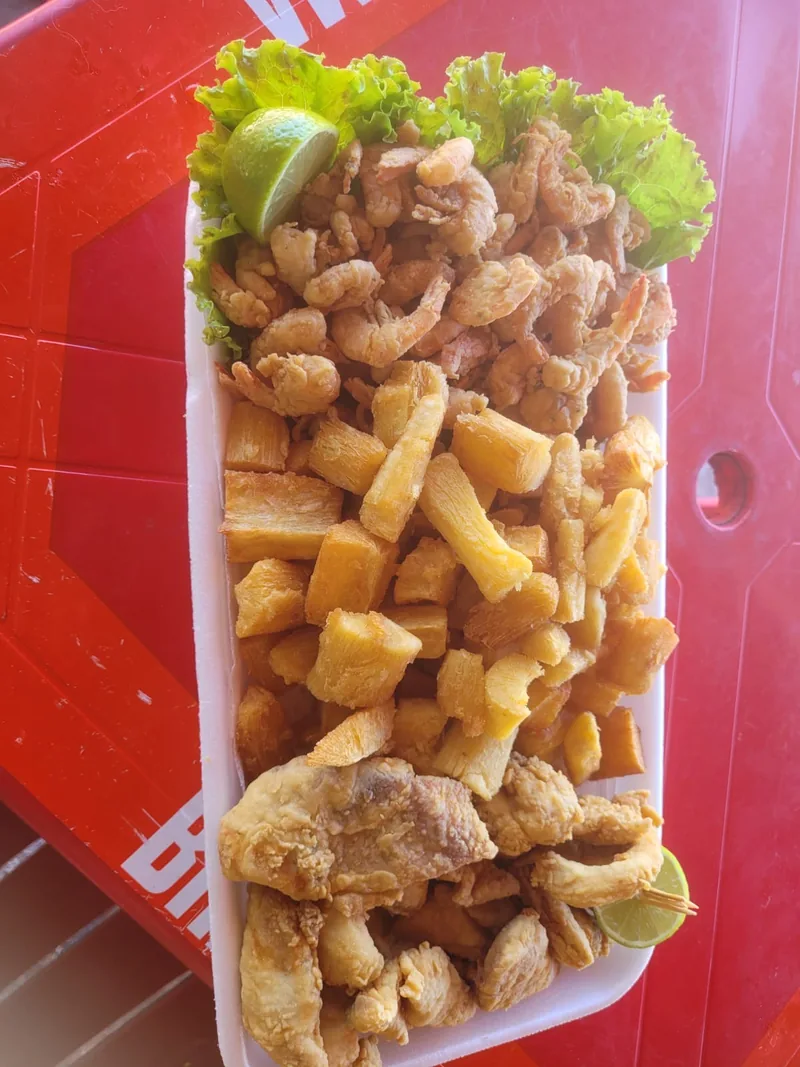
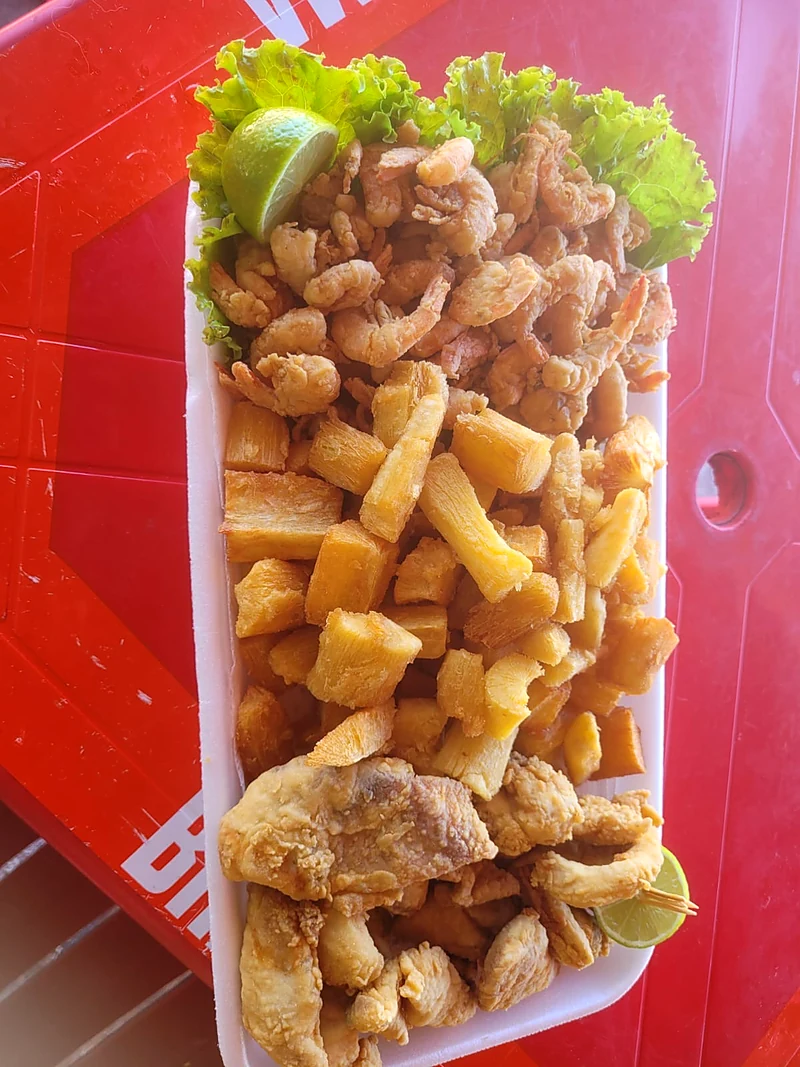
feat: ultra otimizacao Toninhas (Titan One/Gochi Hand/Poppins, faixa do mar em arte com tubarao, barra do topo some ao rolar, cardapio mais legivel, og v2, imagens reprocessadas sem marca d'agua; tira nota 4,6 e Instagram nao confirmados)

diff --git a/index.html b/index.html
@@ -14,27 +14,27 @@
 <meta property="og:title" content="Quiosque Ponto de Encontro Toninhas | Pé na areia, mordida certa">
 <meta property="og:description" content="Porção, pastel e bebida gelada na Praia das Toninhas, Ubatuba. Cardápio com preços e pedido pelo WhatsApp.">
 <meta property="og:url" content="https://quiosque-ponto-de-encontro-toninhas-eight.vercel.app/">
-<meta property="og:image" content="https://quiosque-ponto-de-encontro-toninhas-eight.vercel.app/img/og-toninhas-v1.jpg">
+<meta property="og:image" content="https://quiosque-ponto-de-encontro-toninhas-eight.vercel.app/img/og-toninhas-v2.jpg">
 <meta property="og:image:width" content="1200">
 <meta property="og:image:height" content="630">
 <meta property="og:image:alt" content="Tubarão do Quiosque Ponto de Encontro Toninhas e porção mista na Praia das Toninhas">
 <meta name="twitter:card" content="summary_large_image">
-<meta name="twitter:image" content="https://quiosque-ponto-de-encontro-toninhas-eight.vercel.app/img/og-toninhas-v1.jpg">
+<meta name="twitter:image" content="https://quiosque-ponto-de-encontro-toninhas-eight.vercel.app/img/og-toninhas-v2.jpg">
 <link rel="icon" type="image/png" sizes="48x48" href="favicon-48.png">
 <link rel="apple-touch-icon" href="apple-touch-icon.png">
 <link rel="preload" as="image" href="img/praia-hero-800.webp" imagesrcset="img/praia-hero-800.webp 800w, img/praia-hero-1280.webp 1280w, img/praia-hero-1920.webp 1920w" imagesizes="100vw" fetchpriority="high">
 <link rel="preconnect" href="https://fonts.googleapis.com">
 <link rel="preconnect" href="https://fonts.gstatic.com" crossorigin>
-<link href="https://fonts.googleapis.com/css2?family=Bungee&family=Permanent+Marker&family=Rubik:wght@400;500;600;700&display=swap" rel="stylesheet">
-<script type="application/ld+json">{"@context":"https://schema.org","@graph":[{"@type":"Restaurant","@id":"https://quiosque-ponto-de-encontro-toninhas-eight.vercel.app/#negocio","name":"Quiosque Ponto de Encontro Toninhas","url":"https://quiosque-ponto-de-encontro-toninhas-eight.vercel.app/","image":"https://quiosque-ponto-de-encontro-toninhas-eight.vercel.app/img/og-toninhas-v1.jpg","telephone":"+5512997661305","servesCuisine":["Frutos do mar","Petiscos","Porções"],"address":{"@type":"PostalAddress","streetAddress":"Rua Willy Aureli, 1232","addressLocality":"Ubatuba","addressRegion":"SP","postalCode":"11680-000","addressCountry":"BR"},"hasMap":"https://www.google.com/maps/place/?q=place_id:ChIJb7s8DQJUzZQRAkxHpKFtSZg","sameAs":["https://www.instagram.com/quiosquepontodeencontroton/"]},{"@type":"FAQPage","mainEntity":[{"@type":"Question","name":"Como faço pedido?","acceptedAnswer":{"@type":"Answer","text":"Pelo WhatsApp do Beto, (12) 99766-1305. Chame, diga o que quer e combine com ele."}},{"@type":"Question","name":"Qual o horário de funcionamento?","acceptedAnswer":{"@type":"Answer","text":"O Beto confirma o horário do dia pelo WhatsApp. Chame antes de ir."}},{"@type":"Question","name":"Os preços do cardápio são esses mesmos?","acceptedAnswer":{"@type":"Answer","text":"São os valores do cardápio do quiosque. Podem mudar, então confirme no WhatsApp ao pedir."}},{"@type":"Question","name":"Dá para dividir a conta?","acceptedAnswer":{"@type":"Answer","text":"A conta só é dividida entre 2 pessoas. No final é cobrada taxa de serviço de 10% do garçom."}},{"@type":"Question","name":"Onde fica?","acceptedAnswer":{"@type":"Answer","text":"Na Praia das Toninhas, em Ubatuba. Rua Willy Aureli, 1232 — Praia das Toninhas, Ubatuba - SP."}}]}]}</script>
+<link href="https://fonts.googleapis.com/css2?family=Titan+One&family=Gochi+Hand&family=Poppins:wght@400;500;600;700&display=swap" rel="stylesheet">
+<script type="application/ld+json">{"@context":"https://schema.org","@graph":[{"@type":"Restaurant","@id":"https://quiosque-ponto-de-encontro-toninhas-eight.vercel.app/#negocio","name":"Quiosque Ponto de Encontro Toninhas","url":"https://quiosque-ponto-de-encontro-toninhas-eight.vercel.app/","image":"https://quiosque-ponto-de-encontro-toninhas-eight.vercel.app/img/og-toninhas-v2.jpg","telephone":"+5512997661305","servesCuisine":["Frutos do mar","Petiscos","Porções"],"address":{"@type":"PostalAddress","streetAddress":"Rua Willy Aureli, 1232","addressLocality":"Ubatuba","addressRegion":"SP","postalCode":"11680-000","addressCountry":"BR"},"hasMap":"https://www.google.com/maps/place/?q=place_id:ChIJb7s8DQJUzZQRAkxHpKFtSZg"},{"@type":"FAQPage","mainEntity":[{"@type":"Question","name":"Como faço pedido?","acceptedAnswer":{"@type":"Answer","text":"Pelo WhatsApp do Beto, (12) 99766-1305. Chame, diga o que quer e combine com ele."}},{"@type":"Question","name":"Qual o horário de funcionamento?","acceptedAnswer":{"@type":"Answer","text":"O Beto confirma o horário do dia pelo WhatsApp. Chame antes de ir."}},{"@type":"Question","name":"Os preços do cardápio são esses mesmos?","acceptedAnswer":{"@type":"Answer","text":"São os valores do cardápio do quiosque. Podem mudar, então confirme no WhatsApp ao pedir."}},{"@type":"Question","name":"Dá para dividir a conta?","acceptedAnswer":{"@type":"Answer","text":"A conta só é dividida entre 2 pessoas. No final é cobrada taxa de serviço de 10% do garçom."}},{"@type":"Question","name":"Onde fica?","acceptedAnswer":{"@type":"Answer","text":"Na Praia das Toninhas, em Ubatuba. Rua Willy Aureli, 1232 — Praia das Toninhas, Ubatuba - SP."}}]}]}</script>
 <style>:root{--ink:#04191a;--deep:#0a3b3a;--teal:#12a79a;--turq:#27e0cc;--aqua:#a6f5ea;--blue:#2f86d6;--sun:#ffd23f;--cream:#f6f1e3;--red:#e23b2e;--wa:#25d366;--ease:cubic-bezier(.2,.8,.2,1);--t:.7s}
 *{box-sizing:border-box;margin:0;padding:0}
 html{scroll-behavior:smooth;-webkit-text-size-adjust:100%}
-body{font-family:Rubik,system-ui,sans-serif;font-size:16px;line-height:1.55;color:#eafffb;background:var(--ink);overflow-x:hidden}
+body{font-family:Poppins,system-ui,sans-serif;font-size:16px;line-height:1.55;color:#eafffb;background:var(--ink);overflow-x:hidden}
 img{display:block;max-width:100%;height:auto}
 a{color:inherit}
 .skip{position:absolute;left:-999px}.skip:focus{left:8px;top:8px;background:#fff;color:#000;padding:8px;z-index:99}
-h1,h2,h3,h4{font-family:Bungee,Rubik,sans-serif;font-weight:400;line-height:1.08;letter-spacing:.01em}
+h1,h2,h3,h4{font-family:'Titan One',Poppins,sans-serif;font-weight:400;line-height:1.1;letter-spacing:.005em}
 .wrap{width:min(1120px,100% - 32px);margin-inline:auto}
 .narrow{width:min(720px,100% - 32px)}
 .center{text-align:center}
@@ -42,18 +42,18 @@ h1,h2,h3,h4{font-family:Bungee,Rubik,sans-serif;font-weight:400;line-height:1.08
 .cream{background:var(--cream);color:#0b2a2a}
 .ink{background:var(--ink)}
 .deep{background:var(--deep)}
-.sec h2{font-size:clamp(1.55rem,6.2vw,2.7rem);margin-bottom:16px;max-width:18ch}
+.sec h2{font-size:clamp(1.45rem,5.6vw,2.5rem);margin-bottom:16px;max-width:18ch}
 .center h2,.final h2{margin-inline:auto}
-.eyebrow{font-family:"Permanent Marker",cursive;font-size:1.25rem;color:var(--teal);margin-bottom:6px;transform:rotate(-2deg);display:inline-block}
+.eyebrow{font-family:"Gochi Hand",cursive;font-size:1.5rem;color:var(--teal);margin-bottom:6px;transform:rotate(-2deg);display:inline-block}
 .ink .eyebrow,.deep .eyebrow{color:var(--turq)}
 .sub{opacity:.8;margin-bottom:22px}
 /* header */
 .hd{position:fixed;inset:0 0 auto 0;z-index:40;display:flex;align-items:center;gap:12px;padding:calc(env(safe-area-inset-top) + 10px) 16px 10px;transition:transform .4s var(--ease),background .3s,backdrop-filter .3s}
 .hd.solid{background:rgba(4,25,26,.92)}
 .hd.hide{transform:translateY(-110%)}
-.brand{display:flex;align-items:center;gap:10px;text-decoration:none;margin-right:auto;font-family:Bungee;font-size:.78rem;line-height:1.05}
+.brand{display:flex;align-items:center;gap:10px;text-decoration:none;margin-right:auto;font-family:'Titan One';font-size:.8rem;line-height:1.05}
 .brand img{border-radius:10px;border:2px solid #fff}
-.brand small{display:block;font-family:Rubik;font-size:.68rem;opacity:.75;margin-top:2px}
+.brand small{display:block;font-family:Poppins;font-size:.68rem;opacity:.75;margin-top:2px}
 .hd nav{display:none;gap:22px;font-weight:500}.hd nav a{text-decoration:none;opacity:.9}.hd nav a:hover{color:var(--turq)}
 @media(min-width:760px){.hd nav{display:flex}.hd{padding-inline:max(24px,calc(50vw - 560px))}}
 /* buttons */
@@ -73,12 +73,12 @@ h1,h2,h3,h4{font-family:Bungee,Rubik,sans-serif;font-weight:400;line-height:1.08
 /* hero */
 .hero{position:relative;min-height:100svh;display:flex;align-items:flex-end;overflow:hidden;padding-bottom:70px;isolation:isolate}
 .hero-bg,.hero-bg img{position:absolute;inset:0;width:100%;height:100%;object-fit:cover;object-position:62% 50%}
-.hero-bg img{animation:zoom 22s ease-out both}
+.hero-bg img{animation:zoom 14s ease-out both;image-rendering:auto}
 @keyframes zoom{from{transform:scale(1.12)}to{transform:scale(1)}}
-.hero::before{content:"";position:absolute;inset:0;z-index:1;background:linear-gradient(180deg,rgba(4,25,26,.55) 0,rgba(4,25,26,0) 28%,rgba(4,25,26,.55) 62%,rgba(4,25,26,.96) 100%)}
+.hero::before{content:"";position:absolute;inset:0;z-index:1;background:linear-gradient(180deg,rgba(4,25,26,.5) 0,rgba(4,25,26,0) 24%,rgba(4,25,26,.3) 46%,rgba(4,25,26,.72) 68%,rgba(4,25,26,.95) 100%)}
 .hero-in{position:relative;z-index:3;width:min(1120px,100% - 32px);margin-inline:auto}
 .tag{margin-bottom:12px}.tag span{display:inline-block;background:var(--sun);color:#1b1500;font-weight:600;font-size:.82rem;padding:4px 12px;border-radius:6px;transform:rotate(-1.5deg)}
-.hero h1{font-size:clamp(1.9rem,8.6vw,4.4rem);max-width:12ch;text-shadow:0 3px 18px rgba(0,0,0,.45)}
+.hero h1{font-size:clamp(1.8rem,7.4vw,3.9rem);max-width:12ch;text-shadow:0 3px 18px rgba(0,0,0,.45)}
 .hero h1 .w:nth-child(n+4){color:var(--turq)}
 .lead{max-width:34ch;font-size:1.08rem;margin-top:14px;text-shadow:0 2px 10px rgba(0,0,0,.5)}
 .sticker{position:absolute;z-index:3;top:calc(env(safe-area-inset-top) + 78px);right:14px;width:min(34vw,220px);border-radius:22px;border:4px solid #fff;box-shadow:0 18px 40px -10px rgba(0,0,0,.6);transform:rotate(5deg);animation:bob 5s ease-in-out infinite}
@@ -103,10 +103,10 @@ h1,h2,h3,h4{font-family:Bungee,Rubik,sans-serif;font-weight:400;line-height:1.08
 .feat svg{width:44px;height:44px;flex:none;color:var(--teal);transition:transform .5s var(--ease)}
 .feat li:hover svg,.feat li.in svg{animation:hop .8s var(--ease) .3s}
 @keyframes hop{40%{transform:translateY(-8px) rotate(-6deg)}}
-.feat b{display:block;font-family:Bungee;font-weight:400;font-size:.95rem}
+.feat b{display:block;font-family:'Titan One';font-weight:400;font-size:.95rem}
 .feat span{font-size:.92rem;opacity:.8}
 .ph{margin:0}.ph img{width:100%;height:auto;border-radius:18px;border:4px solid #fff;box-shadow:0 22px 50px -24px rgba(0,0,0,.6)}
-.ph figcaption{font-family:"Permanent Marker";margin-top:10px;color:var(--teal);transform:rotate(-1deg)}
+.ph figcaption{font-family:"Gochi Hand";font-size:1.2rem;margin-top:10px;color:var(--teal);transform:rotate(-1deg)}
 .open .clip{clip-path:inset(12% 12% 12% 12% round 24px);transition:clip-path 1.1s var(--ease)}
 .open.in .clip{clip-path:inset(0 round 0)}
 /* galeria */
@@ -120,7 +120,7 @@ h1,h2,h3,h4{font-family:Bungee,Rubik,sans-serif;font-weight:400;line-height:1.08
 /* cardapio */
 .tabs{display:flex;gap:8px;overflow-x:auto;padding:4px 0 12px;scrollbar-width:none;-webkit-overflow-scrolling:touch}
 .tabs::-webkit-scrollbar{display:none}
-.tabs button{flex:none;min-height:44px;padding:8px 18px;border-radius:999px;border:2px solid rgba(166,245,234,.4);background:transparent;color:#fff;font:600 .95rem Rubik;cursor:pointer;transition:background .3s,color .3s}
+.tabs button{flex:none;min-height:44px;padding:8px 18px;border-radius:999px;border:2px solid rgba(166,245,234,.4);background:transparent;color:#fff;font:600 .95rem Poppins;cursor:pointer;transition:background .3s,color .3s}
 .tabs button[aria-selected=true]{background:var(--sun);border-color:var(--sun);color:#1b1500}
 .panel{display:grid;gap:18px;margin-top:6px}
 .panel[hidden]{display:none}
@@ -129,10 +129,10 @@ h1,h2,h3,h4{font-family:Bungee,Rubik,sans-serif;font-weight:400;line-height:1.08
 .grp h4{font-size:1.05rem;color:var(--turq);margin-bottom:8px}
 .gn{font-size:.82rem;opacity:.75;margin-bottom:8px}
 .grp ul{list-style:none}
-.grp li{display:flex;align-items:baseline;gap:8px;padding:7px 0}
-.grp .n{flex:0 1 auto;font-weight:500}.grp small{display:block;font-weight:400;font-size:.78rem;opacity:.7;line-height:1.3}
+.grp li{display:flex;align-items:baseline;gap:8px;padding:9px 0;font-size:1.04rem}
+.grp .n{flex:0 1 auto;font-weight:500}.grp small{display:block;font-weight:400;font-size:.82rem;opacity:.75;line-height:1.3}
 .grp i{flex:1;border-bottom:2px dotted rgba(166,245,234,.3);min-width:12px;transform:translateY(-4px)}
-.grp b{flex:none;font-weight:600;color:var(--sun);white-space:nowrap}
+.grp b{flex:none;font-weight:700;color:var(--sun);white-space:nowrap;font-size:1.08rem}
 .panel:not([hidden]) .grp{animation:fadeup .6s var(--ease) both}
 .panel:not([hidden]) .grp:nth-child(2){animation-delay:.08s}.panel:not([hidden]) .grp:nth-child(3){animation-delay:.16s}.panel:not([hidden]) .grp:nth-child(4){animation-delay:.24s}
 @keyframes fadeup{from{opacity:0;transform:translateY(16px)}}
@@ -142,12 +142,16 @@ h1,h2,h3,h4{font-family:Bungee,Rubik,sans-serif;font-weight:400;line-height:1.08
 .band-bg{position:absolute;inset:-12% 0;will-change:transform}
 .band-bg img{width:100%;height:100%;object-fit:cover}
 .band-tint{position:absolute;inset:0;background:linear-gradient(180deg,rgba(4,25,26,.5),rgba(4,25,26,.1) 50%,rgba(10,59,58,.6))}
-.band-q{position:relative;z-index:2;font-family:Bungee;font-size:clamp(1.3rem,6vw,2.6rem);line-height:1.2;padding:0 16px;text-shadow:0 3px 18px rgba(0,0,0,.6)}
+.band-q{position:relative;z-index:2;font-family:'Titan One';font-size:clamp(1.25rem,5.4vw,2.4rem);line-height:1.2;padding:0 16px;text-shadow:0 3px 18px rgba(0,0,0,.6)}
 .band-q span{color:var(--sun)}
-.fin{position:absolute;z-index:3;bottom:15%;left:0;width:92px;height:auto;will-change:transform;filter:drop-shadow(0 6px 6px rgba(0,0,0,.35))}
+.fin{position:absolute;z-index:3;bottom:13%;left:0;width:190px;height:auto;will-change:transform;filter:drop-shadow(0 6px 6px rgba(0,0,0,.35))}
+.fin .wk{fill:none;stroke:rgba(255,255,255,.85);stroke-width:2.4;stroke-linecap:round;stroke-dasharray:4 9;animation:wk 1.6s linear infinite}
+@keyframes wk{to{stroke-dashoffset:-26}}
 .fin::after{content:""}
-.water{position:absolute;z-index:2;left:0;right:0;bottom:0;height:16%;background:repeating-linear-gradient(90deg,rgba(166,245,234,.25) 0 36px,rgba(166,245,234,0) 36px 72px);mask-image:linear-gradient(transparent,#000);animation:drift 7s linear infinite}
-@keyframes drift{to{background-position:72px 0}}
+.mar{position:absolute;z-index:2;left:0;right:0;bottom:0;height:84px;overflow:hidden}
+.mar svg{position:absolute;left:0;bottom:0;width:200%;height:100%;animation:marL 14s linear infinite}
+.mar svg+svg{animation-duration:22s;animation-direction:reverse}.mar svg+svg+svg{animation-duration:30s;animation-direction:normal}
+@keyframes marL{to{transform:translateX(-50%)}}
 /* chegar */
 address{font-style:normal;font-weight:500;margin:6px 0 4px}
 .mapw{margin-top:34px}.mapw iframe{width:100%;height:320px;border:0;border-radius:18px;border:4px solid #fff;box-shadow:0 18px 40px -24px rgba(0,0,0,.6)}
@@ -156,12 +160,12 @@ address{font-style:normal;font-weight:500;margin:6px 0 4px}
 .faq details{border-bottom:1px solid rgba(166,245,234,.25)}
 .faq summary{list-style:none;cursor:pointer;padding:16px 36px 16px 0;font-weight:600;position:relative;min-height:48px}
 .faq summary::-webkit-details-marker{display:none}
-.faq summary::after{content:"+";position:absolute;right:4px;top:12px;font:400 1.6rem Bungee;color:var(--turq);transition:transform .3s}
+.faq summary::after{content:"+";position:absolute;right:4px;top:12px;font:400 1.5rem 'Titan One';color:var(--turq);transition:transform .3s}
 .faq details[open] summary::after{transform:rotate(45deg)}
 .faq p{padding:0 0 16px;opacity:.85}
 /* final */
 .final{position:relative;padding:72px 0 96px;text-align:center;background:radial-gradient(120% 90% at 50% 0,#0f6b66 0,var(--ink) 70%);overflow:hidden}
-.final h2{font-size:clamp(1.6rem,7vw,3rem);max-width:14ch;margin:0 auto 22px}
+.final h2{font-size:clamp(1.5rem,6.2vw,2.8rem);max-width:14ch;margin:0 auto 22px}
 .fine{margin-top:16px;opacity:.75;font-size:.92rem}
 .ft{background:#021011;text-align:center;padding:20px 16px calc(20px + env(safe-area-inset-bottom));font-size:.82rem;opacity:.9}
 /* fab */
@@ -215,7 +219,6 @@ dialog .x{top:14px;right:14px}.pv{left:10px;top:50%}.nx{right:10px;top:50%}
       <a class="btn wa" href="https://wa.me/5512997661305?text=Ol%C3%A1%20Beto%21%20Vi%20o%20site%20do%20Quiosque%20Ponto%20de%20Encontro%20Toninhas%20e%20quero%20fazer%20um%20pedido." target="_blank" rel="noopener"><svg viewBox="0 0 24 24" width="22" height="22" aria-hidden="true" fill="currentColor"><path d="M17.472 14.382c-.297-.149-1.758-.867-2.03-.967-.273-.099-.471-.148-.67.15-.197.297-.767.966-.94 1.164-.173.199-.347.223-.644.075-.297-.15-1.255-.463-2.39-1.475-.883-.788-1.48-1.761-1.653-2.059-.173-.297-.018-.458.13-.606.134-.133.298-.347.446-.52.149-.174.198-.298.298-.497.099-.198.05-.371-.025-.52-.075-.149-.669-1.612-.916-2.207-.242-.579-.487-.5-.669-.51-.173-.008-.371-.01-.57-.01-.198 0-.52.074-.792.372-.272.297-1.04 1.016-1.04 2.479 0 1.462 1.065 2.875 1.213 3.074.149.198 2.096 3.2 5.077 4.487.709.306 1.262.489 1.694.625.712.227 1.36.195 1.871.118.571-.085 1.758-.719 2.006-1.413.248-.694.248-1.289.173-1.413-.074-.124-.272-.198-.57-.347m-5.421 7.403h-.004a9.87 9.87 0 01-5.031-1.378l-.361-.214-3.741.982.998-3.648-.235-.374a9.86 9.86 0 01-1.51-5.26c.001-5.45 4.436-9.884 9.888-9.884 2.64 0 5.122 1.03 6.988 2.898a9.825 9.825 0 012.893 6.994c-.003 5.45-4.437 9.884-9.885 9.884m8.413-18.297A11.815 11.815 0 0012.05 0C5.495 0 .16 5.335.157 11.892c0 2.096.547 4.142 1.588 5.945L.057 24l6.305-1.654a11.882 11.882 0 005.683 1.448h.005c6.554 0 11.89-5.335 11.893-11.893a11.821 11.821 0 00-3.48-8.413z"/></svg><span>Pedir no WhatsApp</span></a>
       <a class="btn ghost" href="#cardapio"><span>Ver cardápio</span></a>
     </div>
-    <a class="gseal rv" href="https://www.google.com/maps/place/?q=place_id:ChIJb7s8DQJUzZQRAkxHpKFtSZg" target="_blank" rel="noopener"><svg viewBox="0 0 48 48" width="18" height="18" aria-hidden="true"><path fill="#EA4335" d="M24 9.5c3.5 0 6.6 1.2 9.1 3.6l6.8-6.8C35.8 2.4 30.3 0 24 0 14.6 0 6.5 5.4 2.6 13.2l7.9 6.1C12.4 13.6 17.7 9.5 24 9.5z"/><path fill="#4285F4" d="M46.5 24.5c0-1.6-.1-3.1-.4-4.5H24v9h12.7c-.6 3-2.3 5.5-4.8 7.2l7.5 5.8c4.4-4.1 7.1-10.1 7.1-17.5z"/><path fill="#FBBC05" d="M10.5 28.7a14.5 14.5 0 0 1 0-9.4l-7.9-6.1a24 24 0 0 0 0 21.6l7.9-6.1z"/><path fill="#34A853" d="M24 48c6.5 0 11.9-2.1 15.9-5.8l-7.5-5.8c-2.1 1.4-4.8 2.3-8.4 2.3-6.3 0-11.6-4.1-13.5-9.8l-7.9 6.1C6.5 42.6 14.6 48 24 48z"/></svg><b>4,6</b><span class="st" aria-hidden="true">★★★★★</span><em>no Google</em></a>
   </div>
   <div class="teeth" style="background:transparent" aria-hidden="true"><svg viewBox="0 0 1200 34" preserveAspectRatio="none"><polygon fill="#f6f1e3" points="0,0 0,0 25,34 50,0 50,0 75,34 100,0 100,0 125,34 150,0 150,0 175,34 200,0 200,0 225,34 250,0 250,0 275,34 300,0 300,0 325,34 350,0 350,0 375,34 400,0 400,0 425,34 450,0 450,0 475,34 500,0 500,0 525,34 550,0 550,0 575,34 600,0 600,0 625,34 650,0 650,0 675,34 700,0 700,0 725,34 750,0 750,0 775,34 800,0 800,0 825,34 850,0 850,0 875,34 900,0 900,0 925,34 950,0 950,0 975,34 1000,0 1000,0 1025,34 1050,0 1050,0 1075,34 1100,0 1100,0 1125,34 1150,0 1150,0 1175,34 1200,0 1200,0"/></svg></div>
 </section>
@@ -364,8 +367,8 @@ dialog .x{top:14px;right:14px}.pv{left:10px;top:50%}.nx{right:10px;top:50%}
   <div class="band-bg"><img src="img/praia-faixa-1920.webp" srcset="img/praia-faixa-800.webp 800w, img/praia-faixa-1280.webp 1280w, img/praia-faixa-1920.webp 1920w" sizes="100vw" alt="Faixa de areia da Praia das Toninhas com guarda-sóis verdes" width="1280" height="883" loading=lazy decoding=async></div>
   <div class="band-tint"></div>
   <p class="band-q"><span>Tem tubarão rondando</span><br>a Praia das Toninhas.</p>
-  <svg class="fin" id="fin" viewBox="0 0 120 70" aria-hidden="true"><path d="M2 60C30 56 44 30 52 2c10 22 40 40 66 58-30-6-52-4-66-1C38 58 14 62 2 60z" fill="#0f4f8f" stroke="#fff" stroke-width="3" stroke-linejoin="round"/><path d="M6 67c20-4 80-4 112 0" stroke="#aef5ea" stroke-width="3" fill="none" stroke-linecap="round" opacity=".8"/></svg>
-  <div class="water" aria-hidden="true"></div>
+  <svg class="fin" id="fin" viewBox="0 0 230 70" aria-hidden="true"><path class="wk" d="M104 64C70 60 36 66 0 61M104 68C74 66 44 70 12 67"/><g transform="translate(108 0)"><path d="M2 60C30 56 44 30 52 2c10 22 40 40 66 58-30-6-52-4-66-1C38 58 14 62 2 60z" fill="#0f4f8f" stroke="#fff" stroke-width="3" stroke-linejoin="round"/><path d="M6 67c20-4 80-4 112 0" stroke="#aef5ea" stroke-width="3" fill="none" stroke-linecap="round" opacity=".8"/></g></svg>
+  <div class="mar" id="mares" aria-hidden="true"></div>
 </section>
 
 <section class="sec cream" id="chegar">
@@ -384,16 +387,7 @@ dialog .x{top:14px;right:14px}.pv{left:10px;top:50%}.nx{right:10px;top:50%}
   </div>
   <div class="wrap mapw rv"><iframe title="Mapa do Quiosque Ponto de Encontro Toninhas" loading="lazy" referrerpolicy="no-referrer-when-downgrade" src="https://www.google.com/maps?q=Quiosque+Ponto+de+Encontro+Toninhas+Ubatuba&amp;output=embed"></iframe></div>
 </section>
-<div class="teeth up" style="background:#f6f1e3" aria-hidden="true"><svg viewBox="0 0 1200 34" preserveAspectRatio="none"><polygon fill="#0a3b3a" points="0,0 0,0 25,34 50,0 50,0 75,34 100,0 100,0 125,34 150,0 150,0 175,34 200,0 200,0 225,34 250,0 250,0 275,34 300,0 300,0 325,34 350,0 350,0 375,34 400,0 400,0 425,34 450,0 450,0 475,34 500,0 500,0 525,34 550,0 550,0 575,34 600,0 600,0 625,34 650,0 650,0 675,34 700,0 700,0 725,34 750,0 750,0 775,34 800,0 800,0 825,34 850,0 850,0 875,34 900,0 900,0 925,34 950,0 950,0 975,34 1000,0 1000,0 1025,34 1050,0 1050,0 1075,34 1100,0 1100,0 1125,34 1150,0 1150,0 1175,34 1200,0 1200,0"/></svg></div>
-
-<section class="sec deep" id="avaliacoes">
-  <div class="wrap center">
-    <p class="eyebrow rv">Quem já foi</p>
-    <h2 data-split>A turma aprova.</h2>
-    <a class="gbig rv" href="https://www.google.com/maps/place/?q=place_id:ChIJb7s8DQJUzZQRAkxHpKFtSZg" target="_blank" rel="noopener"><svg viewBox="0 0 48 48" width="18" height="18" aria-hidden="true"><path fill="#EA4335" d="M24 9.5c3.5 0 6.6 1.2 9.1 3.6l6.8-6.8C35.8 2.4 30.3 0 24 0 14.6 0 6.5 5.4 2.6 13.2l7.9 6.1C12.4 13.6 17.7 9.5 24 9.5z"/><path fill="#4285F4" d="M46.5 24.5c0-1.6-.1-3.1-.4-4.5H24v9h12.7c-.6 3-2.3 5.5-4.8 7.2l7.5 5.8c4.4-4.1 7.1-10.1 7.1-17.5z"/><path fill="#FBBC05" d="M10.5 28.7a14.5 14.5 0 0 1 0-9.4l-7.9-6.1a24 24 0 0 0 0 21.6l7.9-6.1z"/><path fill="#34A853" d="M24 48c6.5 0 11.9-2.1 15.9-5.8l-7.5-5.8c-2.1 1.4-4.8 2.3-8.4 2.3-6.3 0-11.6-4.1-13.5-9.8l-7.9 6.1C6.5 42.6 14.6 48 24 48z"/></svg><b>4,6</b><span class="st" aria-hidden="true">★★★★★</span><em>no Google</em></a>
-    <div class="cta rv"><a class="btn ig" href="https://www.instagram.com/quiosquepontodeencontroton/" target="_blank" rel="noopener"><span>Instagram do quiosque</span></a></div>
-  </div>
-</section>
+<div class="teeth up" style="background:#f6f1e3" aria-hidden="true"><svg viewBox="0 0 1200 34" preserveAspectRatio="none"><polygon fill="#04191a" points="0,0 0,0 25,34 50,0 50,0 75,34 100,0 100,0 125,34 150,0 150,0 175,34 200,0 200,0 225,34 250,0 250,0 275,34 300,0 300,0 325,34 350,0 350,0 375,34 400,0 400,0 425,34 450,0 450,0 475,34 500,0 500,0 525,34 550,0 550,0 575,34 600,0 600,0 625,34 650,0 650,0 675,34 700,0 700,0 725,34 750,0 750,0 775,34 800,0 800,0 825,34 850,0 850,0 875,34 900,0 900,0 925,34 950,0 950,0 975,34 1000,0 1000,0 1025,34 1050,0 1050,0 1075,34 1100,0 1100,0 1125,34 1150,0 1150,0 1175,34 1200,0 1200,0"/></svg></div>
 
 <section class="sec ink" id="duvidas">
   <div class="wrap narrow">
@@ -438,18 +432,24 @@ if('IntersectionObserver' in window&&!rm){
 // bolhas no hero
 var bb=$('#bubbles');
 if(bb&&!rm){for(var i=0;i<14;i++){var s=d.createElement('i'),z=8+Math.random()*26;s.style.cssText='left:'+(Math.random()*100)+'%;width:'+z+'px;height:'+z+'px;animation-duration:'+(9+Math.random()*10)+'s;animation-delay:-'+(Math.random()*14)+'s;--dx:'+((Math.random()*60)-30)+'px';bb.appendChild(s)}}
+// ondas do mar (faixa)
+var mar=$("#mares");
+if(mar){[['rgba(166,245,234,.35)',30,8,0],['rgba(18,167,154,.6)',36,7,2],['#0a3b3a',44,6,4]].forEach(function(c){
+  var sv=d.createElementNS('http://www.w3.org/2000/svg','svg');sv.setAttribute('viewBox','0 0 2400 60');sv.setAttribute('preserveAspectRatio','none');
+  var pd='M0,'+c[1];for(var x=0;x<=2400;x+=30)pd+=' L'+x+','+(c[1]+c[2]*Math.sin(2*Math.PI*x/600+c[3])).toFixed(1);
+  var pt=d.createElementNS('http://www.w3.org/2000/svg','path');pt.setAttribute('d',pd+' L2400,60 L0,60Z');pt.setAttribute('fill',c[0]);sv.appendChild(pt);mar.appendChild(sv)})}
 // cabeçalho
 var hd=$('#hd'),fab=$('#fab'),last=0,fin=$('#fin'),band=$('.band'),bg=$('.band-bg'),ticking=false;
 function onScroll(){
   var y=scrollY;
   hd.classList.toggle('solid',y>40);
-  hd.classList.toggle('hide',y>last+6&&y>300);if(y<last-6)hd.classList.remove('hide');
+  if(y>last+3&&y>90)hd.classList.add('hide');else if(y<last-3||y<60)hd.classList.remove('hide');
   last=y;fab.classList.toggle('on',y>420);
   if(band&&!rm){
     var r=band.getBoundingClientRect(),vh=innerHeight;
     if(r.bottom>0&&r.top<vh){
       var p=Math.min(1,Math.max(0,(vh-r.top)/(vh+r.height)));
-      fin.style.transform='translateX('+(-110+p*(innerWidth+220))+'px) translateY('+(Math.sin(p*18)*4)+'px) rotate('+(Math.cos(p*18)*3)+'deg)';
+      fin.style.transform='translateX('+(-210+p*(innerWidth+420))+'px) translateY('+(Math.sin(p*18)*4)+'px) rotate('+(Math.cos(p*18)*3)+'deg)';
       bg.style.transform='translateY('+((p-.5)*-60)+'px)';
     }
   }
